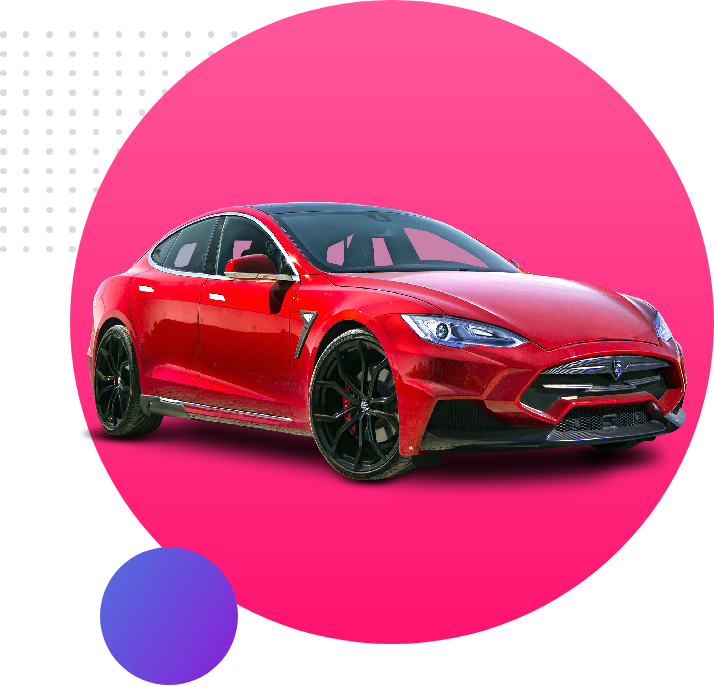
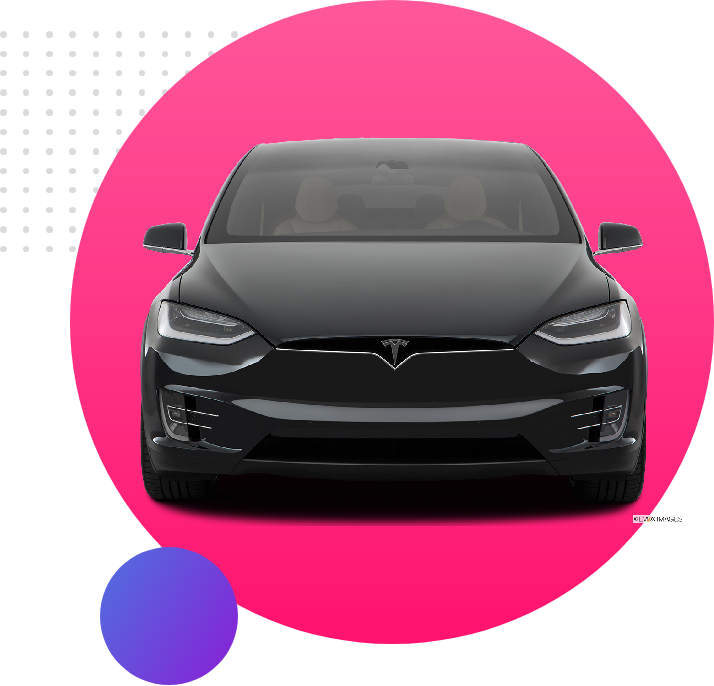
3rd commit

diff --git a/index.html b/index.html
@@ -17,7 +17,7 @@
 <body>
 
     <section class="top-banner">
-        <div class="left-width">
+        <div class="para-width">
             <h1>Welcome To</h1>
             <h1> <span class="name">Tesla</span> World<span class="lite-color">[lite]</span> !</h1>
             <h3>In order to have clean air in cities, you have to go electric</h3>
@@ -28,12 +28,34 @@
                 already exist independently, but when combined, they become even more powerful – that’s the future we
                 want.
             </p>
-            <a class="link-button" target="_blank" href="https://www.linkedin.com/in/arefin-khan-31a123165/">Hire me</a>
+            <a class="link-button" target="_blank" href="https://shop.tesla.com/">TESLA | SHOP</a>
         </div>
 
         <div class="img-width"><img src="images/my-bg.png" alt=""></div>
 
 
+    </section>
+
+    <section class="Model-S">
+
+        <div class="img-width">
+
+            <img src="images/my-bg2.png" alt="">
+
+        </div>
+        <div class="para-width">
+
+            <h1>Model S</h1>
+            <h3>Beyond Ludicrous</h3>
+            <p> With the longest range and quickest acceleration of any electric vehicle in production, Model S Plaid is
+                the highest performing sedan ever built. All Model S powertrains, with updated battery architecture, are
+                capable of back-to-back, consistent 1/4 mile runs.
+            </p>
+
+            <a class="link-button" target="_blank" href="https://www.tesla.com/models/design#overview">ORDER NOW</a>
+
+
+        </div>
     </section>
 
 

diff --git a/style.css b/style.css
@@ -16,14 +16,16 @@ h1{
 
 section{
     display: flex;
+    margin-bottom: 150px;
 }
 
-.left-width{
+.para-width{
     width: 50%;
-    padding-left: 5%;
+    padding-left: 3%;
 }
 .img-width{
     width: 50%;
+    padding-left: 3%;
 }
 .link-button{
     text-decoration: none;
@@ -36,4 +38,12 @@ section{
 .top-banner{
     background-image: url(images/top-banner.png);
     background-repeat: no-repeat;
+}
+
+.Model-S{
+
+    background-image: url(images/model-s-bg.png);
+    background-repeat: no-repeat;
+    background-position: right;
+
 }
